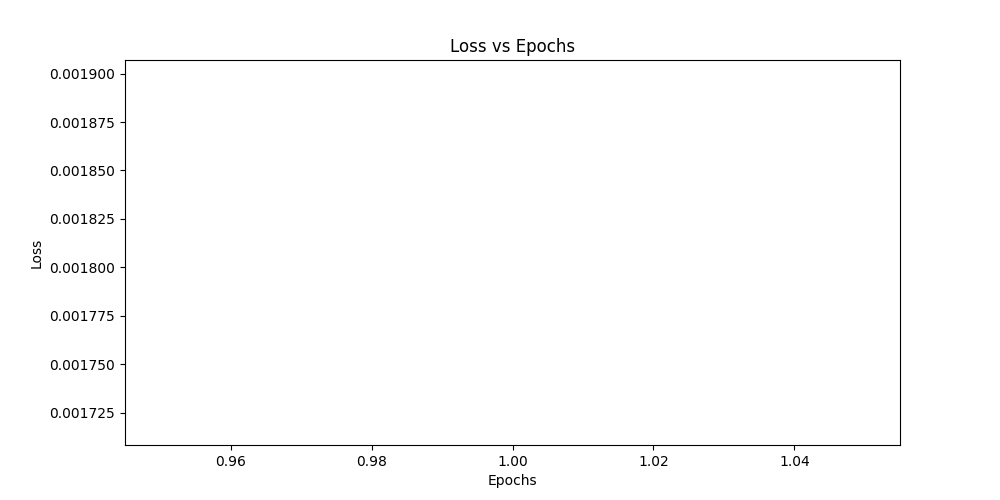
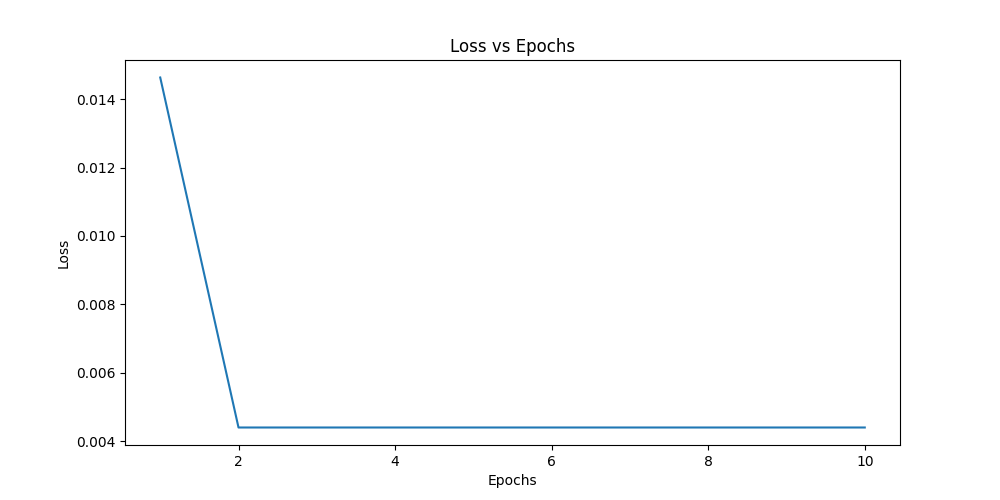
move minmax to dataset as well as go to old batching

diff --git a/tinydas/trainer.py b/tinydas/trainer.py
@@ -34,28 +34,28 @@ class Trainer:
 
     @TinyJit
     def _run_epoch(self):  # -> Tensor:
-        # samples = Tensor.randint(
-        #    self.dataloader.batch_size, high=self.dataloader.num_samples
-        # )
         Tensor.training = True
-        running_loss = 0.0
-        for x in self.dataloader:
-            # x = self.dataloader.data[samples]
-            x = x.reshape(-1, 625 * 2137)
+        samples = Tensor.randint(
+            self.dataloader.batch_size, high=self.dataloader.num_samples
+        )
+        x = self.dataloader.data[samples]
+        # running_loss = 0.0
+        # for x in self.dataloader:
+        x = x.reshape(-1, 625 * 2137)
 
-            self.optim.zero_grad()
+        self.optim.zero_grad()
 
-            loss_dict = self.model.criterion(x)
-            loss = loss_dict["loss"]
+        loss_dict = self.model.criterion(x)
+        loss = loss_dict["loss"]
 
-            loss.backward()
-            self.optim.step()
+        loss.backward()
+        self.optim.step()
 
-            running_loss += loss.item()
+        return loss
+        # running_loss += loss.item()
 
-        running_loss /= self.dataloader.num_samples / self.dataloader.batch_size
-        return Tensor(running_loss)
-        # return loss
+        # running_loss /= self.dataloader.num_samples / self.dataloader.batch_size
+        # return Tensor(running_loss)
 
     def train(self):
         print("Starting training...")

diff --git a/tinydas/dataset.py b/tinydas/dataset.py
@@ -6,7 +6,7 @@ import numpy as np
 from tinygrad.dtype import dtypes
 from tinygrad.nn import Tensor
 
-from tinydas.utils import load_das_file
+from tinydas.utils import load_das_file, minmax
 
 
 class Dataset:
@@ -38,6 +38,6 @@ class Dataset:
         all_data, all_times = zip(*results)
         # all_data_tensor = Tensor(np.stack(all_data), requires_grad=False)
         # all_times_tensor = all_times[0].stack(*all_times[1:], dim=0)
-        all_data_tensor = all_data[0].stack(*all_data[1:], dim=0)
+        all_data_tensor = minmax(all_data[0].stack(*all_data[1:], dim=0))
 
         return {"data": all_data_tensor}  # , "times": all_times_tensor}

diff --git a/tinydas/utils.py b/tinydas/utils.py
@@ -116,7 +116,7 @@ def reparameterize(mu: Tensor, logvar: Tensor) -> Tensor:
 def load_das_file(filename: str, transpose: bool = False, dtype=dtypes.float16):
     """Loads a single das file in to a tuple of the data and the timestamps."""
     with h5py.File(filename, "r") as f:
-        data = minmax(Tensor(f["raw"][:], dtype=dtype, requires_grad=False).T)
+        data = Tensor(f["raw"][:], dtype=dtype, requires_grad=False).T
         times = Tensor(f["timestamp"][:], requires_grad=False)
     if transpose:
         data = data.T
